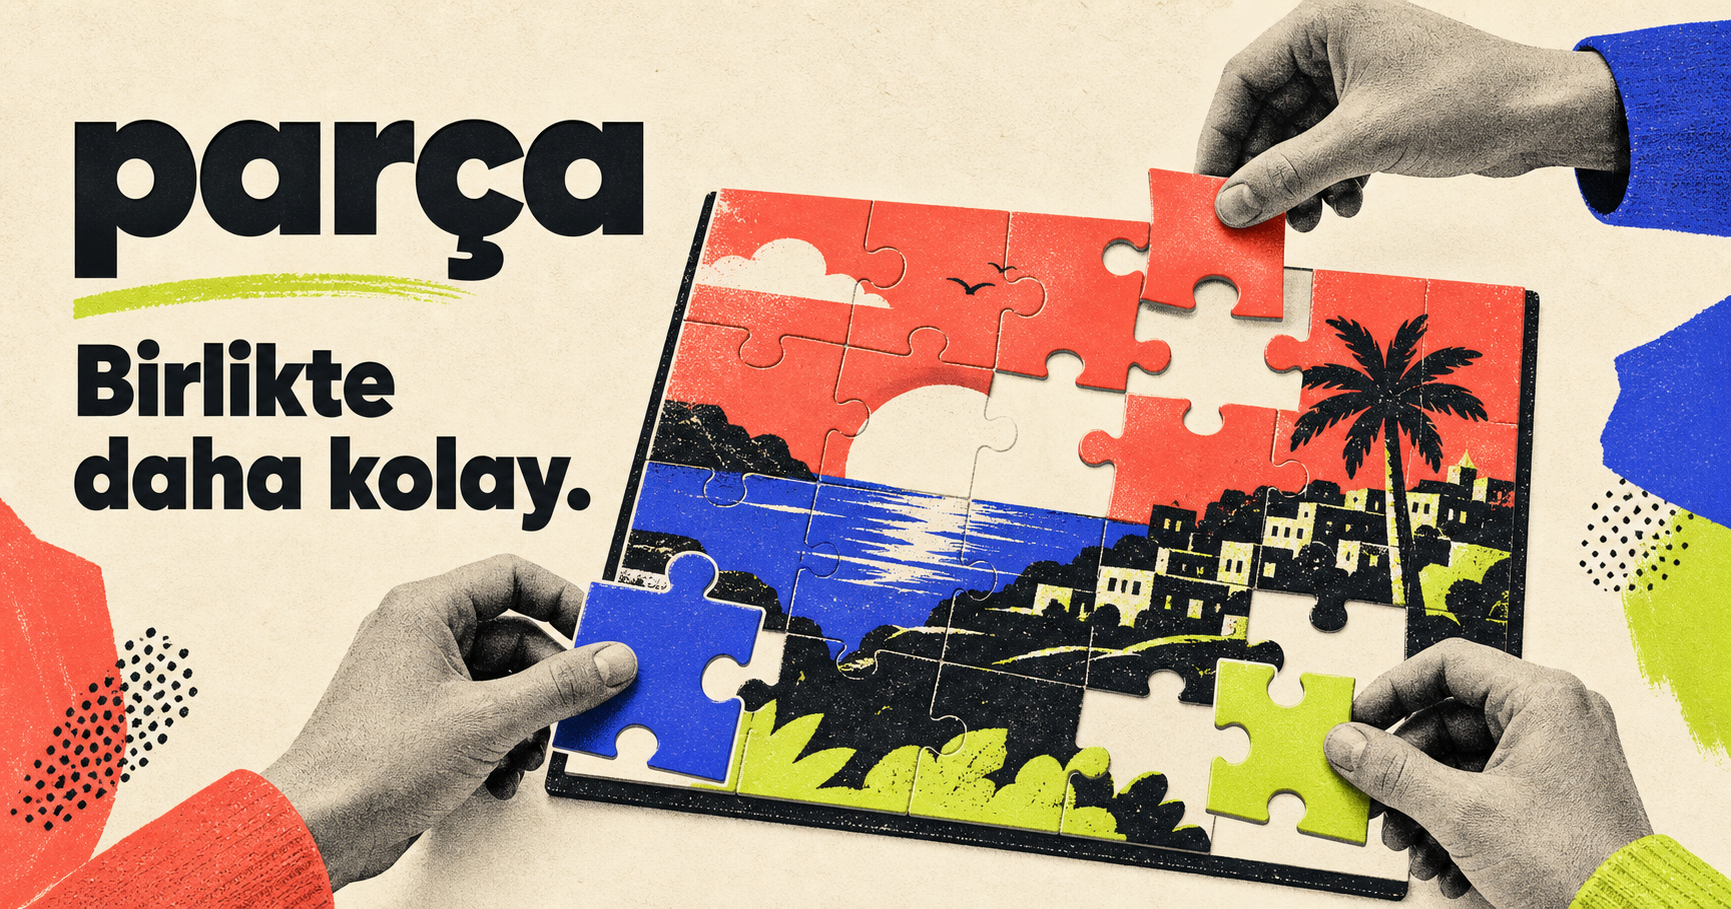
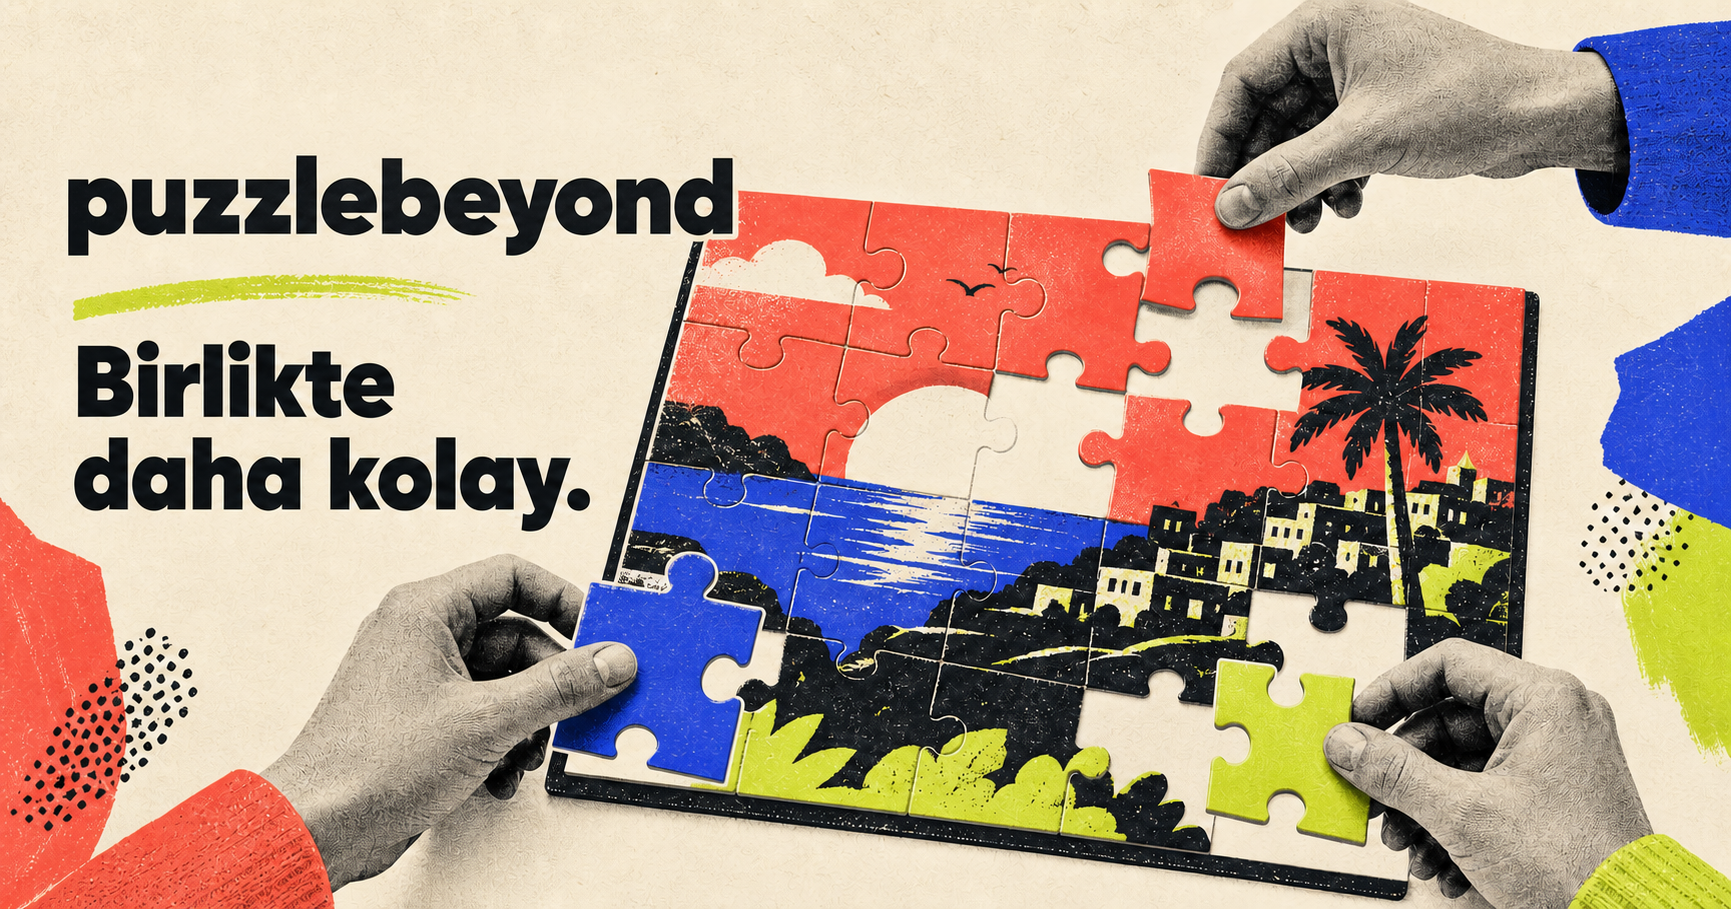
Update link preview branding

diff --git a/app/layout.tsx b/app/layout.tsx
@@ -13,7 +13,7 @@ export async function generateMetadata(): Promise<Metadata> {
     title,
     description,
     icons: { icon: "/favicon.svg", shortcut: "/favicon.svg" },
-    openGraph: { title, description, type: "website", locale: "tr_TR", images: [{ url: `${origin}/og.png`, width: 1728, height: 909, alt: "puzzlebeyond — Birlikte daha kolay" }] },
+    openGraph: { title, description, siteName: "puzzlebeyond", type: "website", locale: "tr_TR", images: [{ url: `${origin}/og.png`, width: 1728, height: 909, alt: "puzzlebeyond — Birlikte daha kolay" }] },
     twitter: { card: "summary_large_image", title, description, images: [`${origin}/og.png`] },
   };
 }
